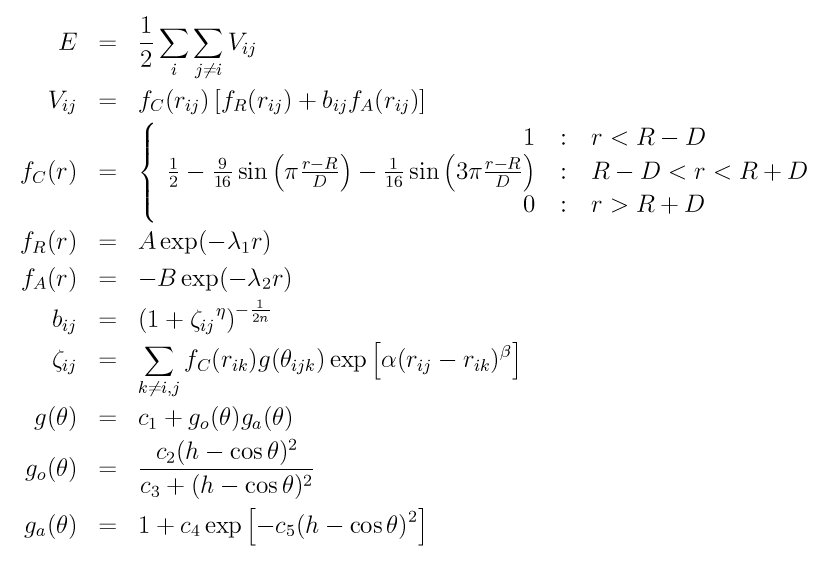
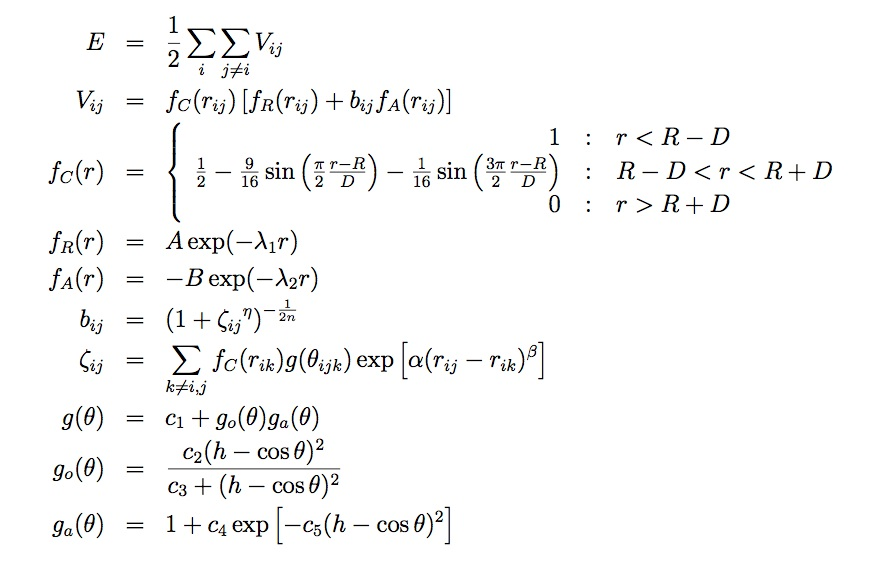
Correct sin arguments in fc(r)
git-svn-id: svn://svn.icms.temple.edu/lammps-ro/trunk@10850 f3b2605a-c512-4ea7-a41b-209d697bcdaa

diff --git a/doc/Eqs/pair_tersoff_mod.tex b/doc/Eqs/pair_tersoff_mod.tex
@@ -7,7 +7,7 @@
   V_{ij} & = & f_C(r_{ij}) \left[ f_R(r_{ij}) + b_{ij} f_A(r_{ij}) \right] \\
   f_C(r) & = & \left\{ \begin{array} {r@{\quad:\quad}l}
     1 & r < R - D \\
-    \frac{1}{2} - \frac{9}{16} \sin \left( \pi \frac{r-R}{D} \right) - \frac{1}{16} \sin \left( 3\pi \frac{r-R}{D} \right) &
+    \frac{1}{2} - \frac{9}{16} \sin \left( \frac{\pi}{2} \frac{r-R}{D} \right) - \frac{1}{16} \sin \left( \frac{3\pi}{2} \frac{r-R}{D} \right) &
       R-D < r < R + D \\
     0 & r > R + D
     \end{array} \right. \\
